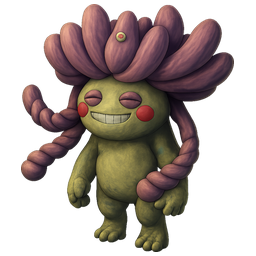
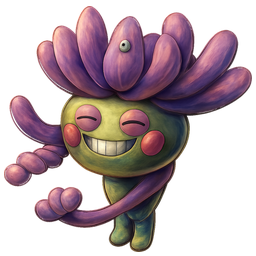
Stosy na mapie, runda 6: obróbka strażników z ustawień planszy (podkładka cienia jak skrzynie, obrys tylko tam, gdzie mają go obiekty, chłodne światło na śniegu), skala z pola sylwetki
Claude-Session: https://claude.ai/code/session_01PMVhkchFqo21CWUFnqt7Cy

diff --git a/src/scenes/AdventureScene.ts b/src/scenes/AdventureScene.ts
@@ -82,8 +82,10 @@ import {
   RAMA_MAPY_H,
   RAMA_MAPY_W,
   SZER_STRAZNIKA_MAX,
+  MASA_STRAZNIKA,
+  WYS_STRAZNIKA_MIN,
+  WYS_STRAZNIKA_MAX,
   WYS_BOHATERA,
-  WYS_STRAZNIKA,
   ZOOM_MAPY,
 } from '../visual/uklad';
 import { dodajWode } from '../visual/woda';
@@ -138,7 +140,8 @@ type Kierunek = keyof typeof KIERUNEK_WIERSZ;
  * Widoczne piksele rysunku, w ułamkach wymiarów pliku (`podstawaRysunku`):
  * pas podstawy w poziomie oraz szerokość i wysokość całej sylwetki.
  */
-type PodstawaRysunku = { lewo: number; prawo: number; widocznaSzer?: number; widocznaWys?: number };
+/** `pole` — ułamek pikseli pliku, które są widoczne (masa sylwetki). */
+type PodstawaRysunku = { lewo: number; prawo: number; widocznaSzer?: number; widocznaWys?: number; pole?: number };
 
 /**
  * Położenie rysunku bohatera względem środka jego pola, w pikselach świata
@@ -175,8 +178,6 @@ const KRYCIE_CIENIA_BRYLY = 0.38;
  * od ekranu, zmniejszana dalej przez kartę, z lekkim wyostrzeniem.
  */
 const STWOREK_NADPROBKA = 2;
-/** …nasycenie względem mistrza (1 — bez zmian); dobrane do obiektów w arkuszu porównania. */
-const STWOREK_NASYCENIE = 1;
 /** …siła wyostrzenia (maska nieostra 3 × 3 w pikselach tekstury). */
 const STWOREK_OSTROSC = 0.7;
 /**
@@ -186,8 +187,24 @@ const STWOREK_OSTROSC = 0.7;
  */
 const STWOREK_PROG_CIEMNY = 105;
 const STWOREK_KRAWEDZ_SWIATLA = 0.35;
-/** Krycie cienia rzuconego stworka. */
-const STWOREK_CIEN = 0.78;
+/** Krycie cienia rzuconego stworka (nad podkładką `cienKontaktowy`). */
+const STWOREK_CIEN = 0.6;
+/**
+ * Grubość obrysu planszy pod stworkiem, w pikselach świata. Obiekty mają
+ * 2,5 przy 1,5–2,5 pola wysokości; stworek ma ok. 1 pole, więc ta sama
+ * WZGLĘDNA waga to ok. 1,6 — przy 2,5 obrys czytał się jak twarda czarna
+ * linia pikselowego sprite'a (Bagna, runda 5).
+ */
+const STWOREK_OBRYS = 1.6;
+/**
+ * Klimat śnieżny (plansza z `cienNaSniegu`, jak Twierdza): obiekty stoją tam
+ * w chłodnym, rozproszonym świetle. Stworek: mniej nasycenia i kontrastu,
+ * odcień lekko ku barwie okolicy, jasna chłodna krawędź od strony światła.
+ * Na pozostałych planszach barwy mistrza zostają nietknięte.
+ */
+const STWOREK_SNIEG = { nasycenie: 0.75, kontrast: 0.8, odcien: 0.15, krawedz: 0.3 };
+/** Bryła: rozjaśnienie lewej-góry i przyciemnienie prawej-dołu sylwetki (±). */
+const STWOREK_BRYLA = 0.08;
 /** Gotowe stworki na mapę: klucz tekstury → rysunek i cień (tekstury są globalne). */
 const STWORKI_MAPY = new Map<
   string,
@@ -653,9 +670,12 @@ export class AdventureScene extends Phaser.Scene {
    *    Resztę zmniejsza karta graficzna — tak jak pliki chaty i wieży.
    * 2. Lekka maska nieostra: schodki po połowie zmiękczają krawędzie
    *    bardziej niż jedno zmniejszenie Lanczosem, którym robione są obiekty.
-   * 3. Ciemny stworek (Vulkaron, czerwony Cindro na bagnie) dostaje jasną
-   *    krawędź od strony światła — obiekty mapy mają ją namalowaną; bez niej
-   *    ciemna sylwetka zlewała się z ciemnym gruntem w plamę.
+   * 3. Klimat planszy, wzięty z tego, co robią jej obiekty: na zwykłych
+   *    planszach barwy mistrza bez zmian (runda 5: odbarwiony Sporex był
+   *    mułem obok nasyconej skrzyni), lekka bryła lewa-góra / prawa-dół;
+   *    na śnieżnych (`cienNaSniegu`) chłodniej i ciszej (`STWOREK_SNIEG`).
+   *    Jasna krawędź od strony światła: na śniegu chłodna u każdego, gdzie
+   *    indziej tylko u ciemnych (Vulkaron), żeby nie zlewały się z gruntem.
    * 4. Cień rzucony: sylwetka spłaszczona i pochylona w prawo-dół (od
    *    światła z lewej-góry), rozmyta, w ciemnej barwie okolicy — na śniegu
    *    chłodny szaroniebieski, w trawie brunatny.
@@ -671,7 +691,7 @@ export class AdventureScene extends Phaser.Scene {
     const h = Math.max(8, Math.round(wys * ZOOM_MAPY * STWOREK_NADPROBKA));
     // Barwa okolicy zaokrąglona, żeby stworki na podobnym gruncie dzieliły teksturę.
     const [tr, tg, tb] = tlo.map((v) => Math.round(v / 8) * 8);
-    const cel = `${klucz}@mapa${h}-${tr}-${tg}-${tb}`;
+    const cel = `${klucz}@mapa${h}-${tr}-${tg}-${tb}-${this.stan.mapa}`;
     const znany = STWORKI_MAPY.get(cel);
     if (znany && this.textures.exists(cel)) return znany;
     const zrodlo = this.textures.get(klucz).getSourceImage() as HTMLImageElement | HTMLCanvasElement;
@@ -701,6 +721,8 @@ export class AdventureScene extends Phaser.Scene {
     // Obrys sylwetki i średnia jasność (do kroków 3 i 4).
     let y1 = -1;
     let y0 = h;
+    let x0 = w;
+    let x1 = -1;
     let sumaL = 0;
     let ileL = 0;
     for (let y = 0; y < h; y++)
@@ -709,14 +731,29 @@ export class AdventureScene extends Phaser.Scene {
         if (d[i + 3] <= 40) continue;
         y0 = Math.min(y0, y);
         y1 = Math.max(y1, y);
+        x0 = Math.min(x0, x);
+        x1 = Math.max(x1, x);
         if (d[i + 3] > 200) {
           sumaL += 0.299 * d[i] + 0.587 * d[i + 1] + 0.114 * d[i + 2];
           ileL++;
         }
       }
     if (y1 < 0) return { rysunek: klucz };
-    const ciemny = ileL > 0 && sumaL / ileL < STWOREK_PROG_CIEMNY;
+    const srL = ileL > 0 ? sumaL / ileL : 128;
+    const ciemny = srL < STWOREK_PROG_CIEMNY;
     const ph = Math.max(1, y1 - y0);
+    const sx = (x0 + x1) / 2;
+    const pw = Math.max(1, (x1 - x0) / 2);
+    // Klimat planszy — z tego, co robią jej obiekty (patrz `STWOREK_SNIEG`).
+    const snieg = !!planszaPoId(this.stan.mapa).modul.USTAWIENIA?.cienNaSniegu;
+    const nasycenie = snieg ? STWOREK_SNIEG.nasycenie : 1;
+    const kontrast = snieg ? STWOREK_SNIEG.kontrast : 1;
+    const odcien = snieg ? STWOREK_SNIEG.odcien : 0;
+    const sr = (tr + tg + tb) / 3 || 1;
+    // Jasna krawędź od światła: na śniegu chłodna barwa śniegu u każdego
+    // stworka, gdzie indziej biel — i tylko u ciemnych.
+    const krawedz = snieg ? STWOREK_SNIEG.krawedz : ciemny ? STWOREK_KRAWEDZ_SWIATLA : 0;
+    const barwaKrawedzi = snieg ? [tr, tg, tb].map((v) => Math.min(255, (v * 255) / Math.max(tr, tg, tb, 1))) : [255, 255, 255];
 
     // 2–3. Nasycenie, wyostrzenie, jasna krawędź od światła — z kopii,
     // żeby sąsiedzi byli sprzed zmian.
@@ -741,11 +778,16 @@ export class AdventureScene extends Phaser.Scene {
             } else if (dx + dy < 0) swiatlo = true;
           }
         const L = 0.299 * d[i] + 0.587 * d[i + 1] + 0.114 * d[i + 2];
+        // Bryła: światło z lewej-góry, cień z prawej-dołu.
+        const bryla = 1 + STWOREK_BRYLA * (-(x - sx) / pw - ((y - y0) / ph - 0.5) * 2) * 0.5;
         for (let c = 0; c < 3; c++) {
           let v = d[i + c];
-          v = L + (v - L) * STWOREK_NASYCENIE;
+          v = L + (v - L) * nasycenie;
+          v = srL + (v - srL) * kontrast;
+          v *= 1 - odcien + (odcien * [tr, tg, tb][c]) / sr;
           if (ile) v += (d[i + c] - rozmyte[c] / ile) * STWOREK_OSTROSC;
-          if (ciemny && swiatlo) v += (255 - v) * STWOREK_KRAWEDZ_SWIATLA;
+          v *= bryla;
+          if (krawedz && swiatlo) v += (barwaKrawedzi[c] - v) * krawedz;
           wynik[i + c] = v;
         }
       }
@@ -807,7 +849,17 @@ export class AdventureScene extends Phaser.Scene {
     const im = this.add.image(0, KAFEL * 0.46, naMape.rysunek).setOrigin(0.5, 1);
     im.setScale(wys / im.height);
     const obrazy: Phaser.GameObjects.Image[] = [];
+    const ust = planszaPoId(this.stan.mapa).modul.USTAWIENIA;
+    // Podkładka cienia — DOKŁADNIE ta, którą dostaje skrzynia i stos na tej
+    // planszy (`cienKontaktowy` z `cienZnajdzek`, na śniegu barwa
+    // `cienNaSniegu`). Runda 5: „nie widać żadnego cienia kontaktowego",
+    // a skały i skrzynie stoją na wyraźnych podkładkach.
+    const spod = KAFEL * 0.46 - this.pustkaPodRysunkiem(klucz, wys);
+    obrazy.push(
+      this.cienKontaktowy(klucz, wys, 0, spod, KRYCIE_CIENIA * (ust?.cienZnajdzek?.krycie ?? 1), ust?.cienZnajdzek?.szer ?? 1)
+    );
     if (naMape.cien) {
+      // Nad podkładką cień rzucony w kształcie stworka, od światła w prawo-dół.
       const sk = im.scaleY;
       const yStop = im.y - naMape.cien.stopy * sk;
       obrazy.push(
@@ -815,17 +867,10 @@ export class AdventureScene extends Phaser.Scene {
           .image(0, yStop, naMape.cien.klucz)
           .setOrigin(naMape.cien.ox, naMape.cien.oy)
           .setScale(sk)
-          .setAlpha(STWOREK_CIEN),
-        this.add
-          .image(KAFEL * 0.05, yStop, CIEN_KONTAKTOWY)
-          .setDisplaySize(im.displayWidth * 0.62, im.displayWidth * 0.16)
-          .setTint(naMape.cien.barwa)
-          .setTintMode(Phaser.TintModes.FILL)
-          .setAlpha(0.55)
+          .setAlpha(STWOREK_CIEN)
       );
     }
-    const obrys = planszaPoId(this.stan.mapa).modul.USTAWIENIA?.obrysObiektow;
-    if (obrys) obrazy.push(...this.obrysRysunku(im, obrys));
+    if (ust?.obrysObiektow) obrazy.push(...this.obrysRysunku(im, ust.obrysObiektow, STWOREK_OBRYS));
     obrazy.push(im);
     return { obrazy, im };
   }
@@ -836,9 +881,9 @@ export class AdventureScene extends Phaser.Scene {
    * rysunkiem. Bagna, runda 6: „obiekty interaktywne zlewają się
    * z dekoracją — bez konturu i kontrastu". Drzewa i skały obrysu nie mają,
    * więc to, co da się podnieść, odwiedzić albo pokonać, odcina się od tła.
+   * `d` — przesunięcie w pikselach świata (patrz `STWOREK_OBRYS`).
    */
-  private obrysRysunku(im: Phaser.GameObjects.Image, krycie: number): Phaser.GameObjects.Image[] {
-    const d = 2.5;
+  private obrysRysunku(im: Phaser.GameObjects.Image, krycie: number, d = 2.5): Phaser.GameObjects.Image[] {
     return [[-1, 0], [1, 0], [0, -1], [0, 1], [-0.7, -0.7], [0.7, -0.7], [-0.7, 0.7], [0.7, 0.7]].map(
       ([ox, oy]) =>
         this.add
@@ -866,9 +911,11 @@ export class AdventureScene extends Phaser.Scene {
       let gora = a.h;
       let minX = a.w;
       let maxX = -1;
+      let widoczne = 0;
       for (let y = 0; y < a.h; y++)
         for (let x = 0; x < a.w; x++)
           if (a.dane[y * a.w + x] > 40) {
+            widoczne++;
             if (y > dol) dol = y;
             if (y < gora) gora = y;
             if (x < minX) minX = x;
@@ -890,6 +937,7 @@ export class AdventureScene extends Phaser.Scene {
           prawo: (r + 1) / a.w,
           widocznaSzer: (maxX - minX + 1) / a.w,
           widocznaWys: (dol - gora + 1) / a.h,
+          pole: widoczne / (a.w * a.h),
         };
       }
     }
@@ -1708,21 +1756,27 @@ export class AdventureScene extends Phaser.Scene {
     if (o.rodzaj === 'skrzynia') return { klucz: 'm-skrzynia', wys: KAFEL * (znajdzki ? znajdzki * 1.1 : 0.78) };
     if (o.rodzaj === 'artefakt') return { klucz: 'm-kamien-ewolucji', wys: KAFEL * (znajdzki ?? 0.72) };
     if (o.rodzaj === 'potwor') {
-      // Strażnik ma mieć `WYS_STRAZNIKA` pola WIDOCZNEJ sylwetki, nie pliku:
-      // stworki mają różny przezroczysty margines, a przy jednej wysokości
-      // pliku część wychodziła na plamkę. Szerokie sylwetki przycina
-      // `SZER_STRAZNIKA_MAX`. Zwracana `wys` to nadal wysokość PLIKU, więc
-      // cień kontaktowy, spód rysunku i trafienia kliknięciem idą za nią same.
+      // Strażnik ma mieć `MASA_STRAZNIKA` pola² WIDOCZNEJ sylwetki (pierwiastek
+      // z pola powierzchni), a nie stałą wysokość: przy jednej wysokości
+      // chudy Glacyn wyglądał na zabawkę, a przysadzisty smok — na górę.
+      // Granice `WYS_STRAZNIKA_MIN/MAX` i `SZER_STRAZNIKA_MAX` trzymają
+      // skrajne kształty. Zwracana `wys` to wysokość PLIKU, więc cień
+      // kontaktowy, spód rysunku i trafienia kliknięciem idą za nią same.
       const klucz = `p-${o.oddzialy?.[0].sprite ?? '00002'}`;
       const p = this.podstawaRysunku(klucz);
       const zrodlo = this.textures.get(klucz).getSourceImage() as { width: number; height: number };
       const proporcja = (zrodlo.width || 1) / (zrodlo.height || 1);
-      // `USTAWIENIA.skalaStrazy` (per plansza; Twierdza, runda 10: „stwory to
-      // malutkie naklejki w innej skali niż zamek"). Brak = 1.
+      // `USTAWIENIA.skalaStrazy` (per plansza). Brak = 1.
       const skalaStrazy = planszaPoId(this.stan.mapa).modul.USTAWIENIA?.skalaStrazy ?? 1;
-      const wys = Math.min(
-        (WYS_STRAZNIKA * skalaStrazy) / (p.widocznaWys ?? 1),
-        (SZER_STRAZNIKA_MAX * skalaStrazy) / ((p.widocznaSzer ?? 1) * proporcja)
+      const vw = p.widocznaWys ?? 1;
+      const wys = Phaser.Math.Clamp(
+        Math.min(
+          (MASA_STRAZNIKA * skalaStrazy) / Math.sqrt((p.pole ?? 0.4) * proporcja),
+          (WYS_STRAZNIKA_MAX * skalaStrazy) / vw,
+          (SZER_STRAZNIKA_MAX * skalaStrazy) / ((p.widocznaSzer ?? 1) * proporcja)
+        ),
+        (WYS_STRAZNIKA_MIN * skalaStrazy) / vw,
+        Infinity
       );
       return { klucz, wys: KAFEL * wys };
     }

diff --git a/src/visual/uklad.ts b/src/visual/uklad.ts
@@ -48,18 +48,18 @@ export const KAFEL_EKRAN = KAFEL * ZOOM_MAPY;
  */
 export const WYS_BOHATERA = 1.5;
 /**
- * Strażnik: 1,2 → 1,0 pola (runda 3 wzorca „stwory na mapie", trzech
- * krytyków: smok Cynder szeroki jak pomost mostu i wielki jak góra; stwory
- * Heroes 3 na mapie mają mniej więcej jedno pole). Od kupki surowca
- * odróżnia go dalej sylwetka i cień rzucony, a nie wzrost.
+ * Strażnik na mapie: skala z MASY sylwetki, nie z wysokości. Runda 3 wzorca
+ * „stwory na mapie": 1,2 pola wysokości robiło ze smoka Cyndera górę; runda
+ * 5: przy 1,0 pola chudy stworek na Bagnach był „zabawką" obok trzcin
+ * i mostu. `MASA_STRAZNIKA` to pierwiastek z pola widocznej sylwetki,
+ * w polach — przysadzisty i chudy stworek zajmują na mapie tyle samo
+ * miejsca; typowy wychodzi na ok. 1,05–1,1 pola wysokości. Wysokość
+ * trzymają granice MIN/MAX, a szerokie sylwetki (węże, smok) — SZER.
  */
-export const WYS_STRAZNIKA = 1.0;
-/**
- * Szerokie stworki (węże, płaszczki, smok) przy pełnej wysokości rozlewałyby
- * się na dwa-trzy pola i zasłaniały sąsiadów — sylwetkę ograniczamy
- * szerokością, do 1,3 pola.
- */
-export const SZER_STRAZNIKA_MAX = 1.3;
+export const MASA_STRAZNIKA = 0.75;
+export const WYS_STRAZNIKA_MIN = 0.85;
+export const WYS_STRAZNIKA_MAX = 1.25;
+export const SZER_STRAZNIKA_MAX = 1.4;
 
 export const PANEL_W = 250;
 export const PASEK_H = 34;

diff --git a/src/data/mapy.ts b/src/data/mapy.ts
@@ -78,7 +78,7 @@ export interface UstawieniaPlanszy {
    */
   znajdzki?: number;
   /**
-   * Mnożnik wysokości widocznej sylwetki strażników (`WYS_STRAZNIKA`) na tej
+   * Mnożnik skali strażników (`MASA_STRAZNIKA` i jej granic) na tej
    * planszy. Twierdza, runda 10: „stwory to malutkie naklejki w innej skali
    * niż zamek". Brak = 1.
    */

diff --git a/tools/stworki_przemaluj.py b/tools/stworki_przemaluj.py
@@ -134,6 +134,9 @@ WYBOR: dict[str, int] = {
     # Runda 4 (matowo, mniej „chibi"): 00263-4 i 00041-4 wyszły brązowe —
     # zostają wersje pod mapę z rundy 3.
     '00263': 3, '00041': 3,
+    # Runda 5 (sędzią nasze obiekty): matowy 00002-6 wyszedł szarofioletowo-
+    # oliwkowym mułem obok nasyconej skrzyni i wieży — wraca wersja pod mapę.
+    '00002': 4,
 }
 
 #: Surowe wersje namalowane przodem w lewo — odbijane w poziomie przy
